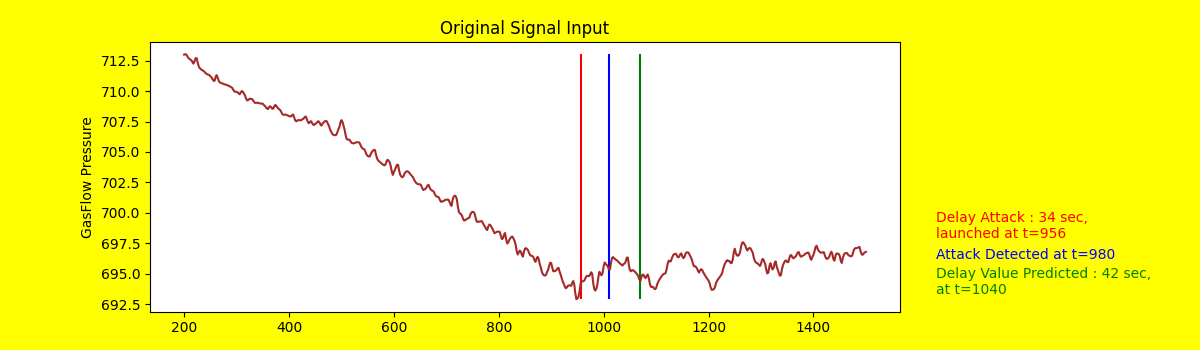
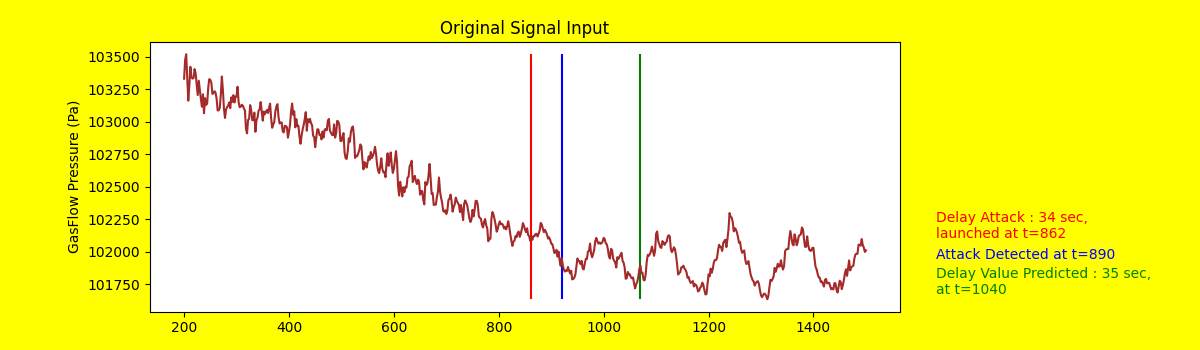
add units

diff --git a/mysite/polls/views.py b/mysite/polls/views.py
@@ -21,14 +21,14 @@ class PPCSTDAForm(forms.Form):
     system = forms.ChoiceField(widget=forms.RadioSelect, choices=cps_choices, label="Cyber Physical System", initial='ppcs')
     protection = forms.ChoiceField(widget=forms.RadioSelect, choices=protection_choices, label="Attack Detection and Classification")
     # mitigation = forms.ChoiceField(widget=forms.RadioSelect, choices=mitigation_choices, label="Attack Mitigation")
-    tda_value = forms.IntegerField(label="TDA Value", max_value=50, min_value=0)
+    tda_value = forms.IntegerField(label="TDA Value (s)", max_value=50, min_value=0)
     tda_location = forms.IntegerField(label="TDA Launch Time", max_value=1200, min_value=800)
 
 class AGCTDAForm(forms.Form):
     system = forms.ChoiceField(widget=forms.RadioSelect, choices=cps_choices, label="Cyber Physical System", initial='agc')
     protection = forms.ChoiceField(widget=forms.RadioSelect, choices=protection_choices, label="Attack Detection and Classification")
     # mitigation = forms.ChoiceField(widget=forms.RadioSelect, choices=mitigation_choices, label="Attack Mitigation")
-    tda_value = forms.IntegerField(label="TDA Value", max_value=10, min_value=0)
+    tda_value = forms.IntegerField(label="TDA Value (s)", max_value=10, min_value=0)
     tda_location = forms.IntegerField(label="TDA Launch Time", max_value=220, min_value=100)
 
 # def index(request):

diff --git a/mysite/polls/datareader.py b/mysite/polls/datareader.py
@@ -34,7 +34,7 @@ def load_data():
         row_arr = np.array(row)
         # print(row_arr[:20])
         # exit()
-        ppcs_data[(int(row['delay']), int(row['delay_st']))] = (row_arr[9+2*651:9+3*651], row['reg_loc_arr'], row['cls_loc_arr'],
+        ppcs_data[(int(row['delay']), int(row['delay_st']))] = (row_arr[9+0*651:9+1*651], row['reg_loc_arr'], row['cls_loc_arr'],
                                                                 row['reg_out_arr'], row['cls_out_arr'],
                                                                 get_array_from_str(row['reg_complete_arr']), get_array_from_str(row['cls_complete_arr']))
         # exit()
@@ -79,7 +79,7 @@ def plot_main_signal(signal_arr, gt_data, conf, protection, system):
 
     plt.title("Original Signal Input")
     if(system=='ppcs'):
-        plt.ylabel('GasFlow Pressure')
+        plt.ylabel('GasFlow Pressure (Pa)')
     else:
         plt.ylabel('System Frequency (Hz)')
 
